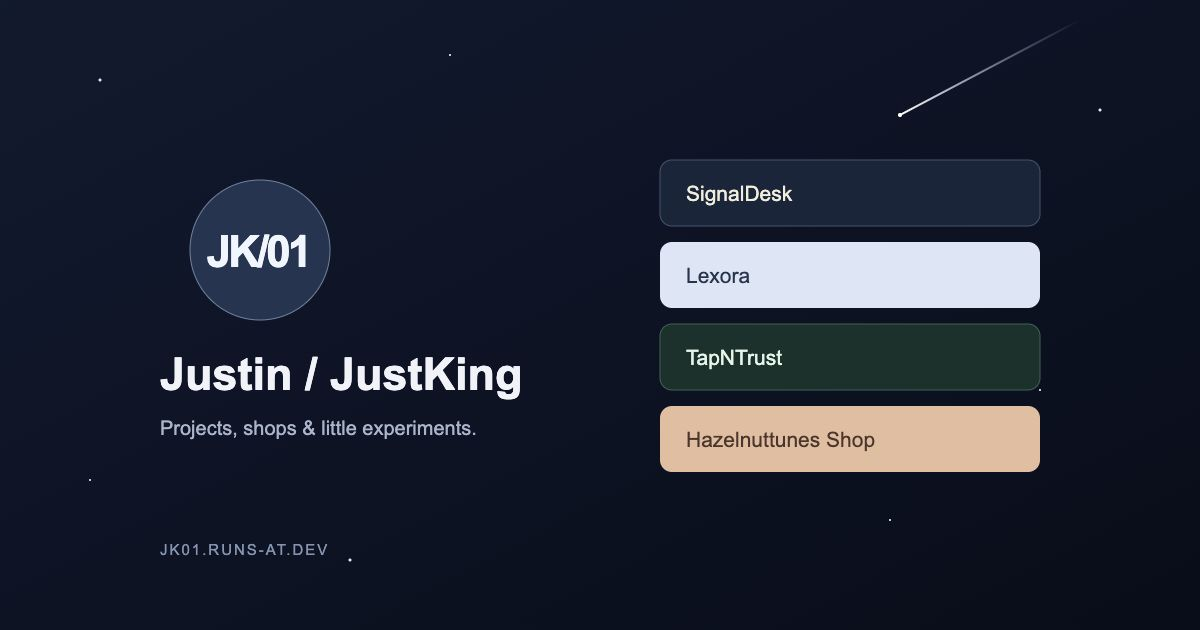
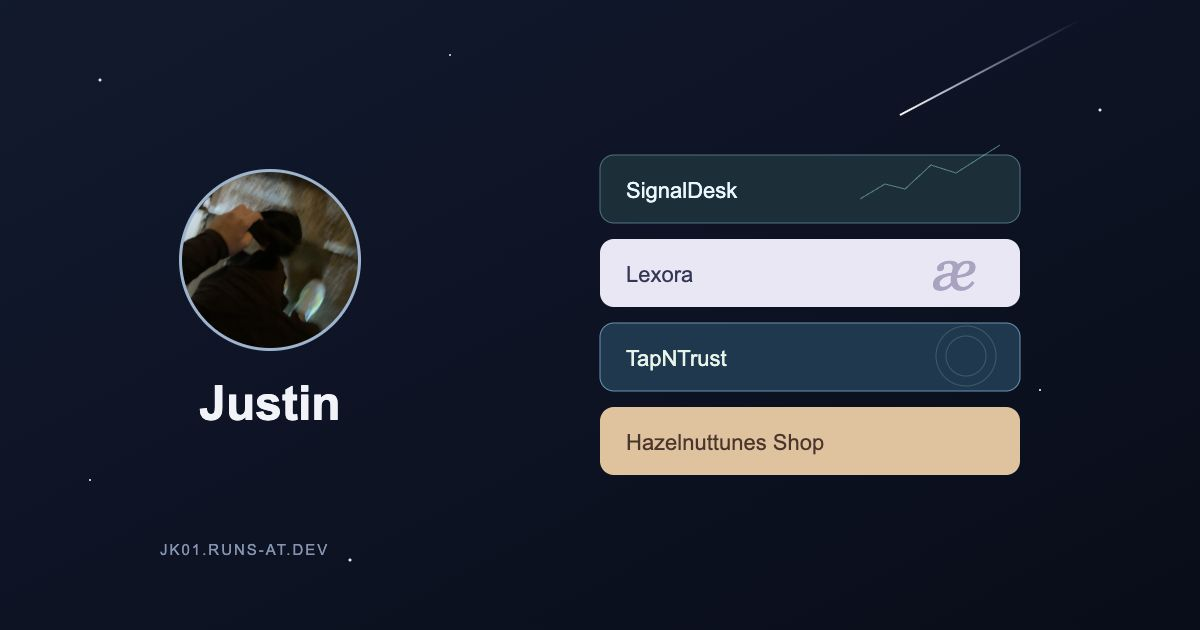
Personalize Justin profile and give project cards distinct illustrated finishes

Changed region(s): [[0.4933, 0.2413, 0.8942, 0.754], [0.1233, 0.2714, 0.4317, 0.6937]]

diff --git a/styles.css b/styles.css
@@ -23,34 +23,53 @@ a:focus-visible,button:focus-visible{outline:3px solid #d8e4ff;outline-offset:5p
 .sky-paused .meteor,.sky-paused .twinkle{animation-play-state:paused}
 .link-page{width:min(100% - 40px,560px);margin:0 auto;padding:clamp(42px,7vh,76px) 0 28px}
 .profile{text-align:center;margin-bottom:30px}
-.avatar{position:relative;display:grid;place-items:center;width:82px;height:82px;margin:0 auto 19px;border:1px solid #d8e4ff38;border-radius:50%;background:linear-gradient(145deg,#293b57,#131f36);box-shadow:0 0 0 7px #d3e1ff04,0 8px 32px #0003;overflow:hidden}
-.avatar>span{font-size:28px;font-weight:600;letter-spacing:-2px;color:#f0f4ff}.avatar-slash{font-weight:400;color:#a2b9df;margin-inline:1px}.avatar small{font-size:16px;letter-spacing:-.7px}
+.avatar{position:relative;display:grid;place-items:center;width:96px;height:96px;margin:0 auto 17px;border:2px solid #d8e4ff88;border-radius:50%;background:#131f36;box-shadow:0 0 0 7px #d3e1ff05,0 0 45px #85baff20;overflow:hidden}
 .profile-photo{width:100%;height:100%;object-fit:cover}
-.profile h1{font-size:23px;line-height:1.4;font-weight:600;letter-spacing:-.6px;margin:0 0 8px}.profile h1 span{font-weight:400;color:#b2bdd3;font-size:17px;letter-spacing:-.35px}
-.profile p{font-size:12px;line-height:1.7;color:var(--muted);margin:0;font-weight:400}
-#projectGrid{display:grid;gap:15px}
+.profile h1{font-size:25px;line-height:1.4;font-weight:600;letter-spacing:-.5px;margin:0}
+
+#projectGrid{display:grid;gap:18px}
 .project-group{min-width:0}
-.project-card{--edge:#ffffff22;--shadow:#0003;--surface:#172a30;--color:#e8f5ef;--sub:#a4c7c5;position:relative;display:flex;align-items:center;gap:18px;min-height:93px;padding:18px 22px;border:1px solid var(--edge);border-radius:13px;background:var(--surface);color:var(--color);box-shadow:0 5px 0 var(--shadow);transition:transform .2s ease,box-shadow .2s ease,border-color .2s ease}
-.project-card:hover{transform:translateY(-3px);box-shadow:0 8px 0 var(--shadow);border-color:var(--color)}
+.project-card{--edge:#ffffff22;--shadow:#0003;--surface:#172a30;--color:#e8f5ef;--sub:#a4c7c5;position:relative;display:flex;align-items:center;gap:18px;min-height:104px;padding:21px 22px;border:1px solid var(--edge);border-radius:17px;background:var(--surface);overflow:hidden;isolation:isolate;color:var(--color);box-shadow:0 12px 30px var(--shadow),inset 0 1px 0 #ffffff17;transition:transform .2s ease,box-shadow .2s ease,border-color .2s ease}
+.project-card:hover{transform:translateY(-3px);box-shadow:0 16px 38px var(--shadow),inset 0 1px 0 #ffffff33;border-color:var(--color)}
 .project-card:active{transform:translateY(1px);box-shadow:0 2px 0 var(--shadow)}
-.project-logo{flex:0 0 54px;width:54px;height:54px;position:relative;display:grid;place-items:center;border-radius:11px;background:#ffffff09;overflow:hidden}
+.project-logo{z-index:2;flex:0 0 54px;width:54px;height:54px;position:relative;display:grid;place-items:center;border-radius:11px;background:#ffffff09;overflow:hidden}
 .project-logo img{display:block;width:100%;height:100%;object-fit:contain;position:absolute;inset:0;z-index:1;background:var(--surface)}
-.logo-fallback{font-size:22px;font-weight:600}.project-label{min-width:0;flex:1}
+.logo-fallback{font-size:22px;font-weight:600}.project-label{min-width:0;flex:1;position:relative;z-index:2}
 .project-label h2{font-size:16px;font-weight:500;line-height:1.5;letter-spacing:-.25px;margin:0}
 .project-subtitle{display:block;font-size:11px;font-weight:400;line-height:1.7;color:var(--sub);margin-top:2px}
-.card-arrow{font-size:20px;font-weight:400;color:var(--sub);transition:transform .2s ease;margin-left:8px}
+.card-arrow{position:relative;z-index:2;font-size:20px;font-weight:400;color:var(--sub);transition:transform .2s ease;margin-left:8px}
 .project-card:hover .card-arrow{transform:translate(2px,-2px)}
-.theme-signaldesk .project-card{--surface:#17253b;--edge:#3c5473;--color:#f2eddb;--sub:#bdc9dc;--shadow:#0b1427c4}
-.theme-lexora .project-card{--surface:#dce5f7;--edge:#f0f5ff;--color:#26354e;--sub:#566a89;--shadow:#93a7cc55}
-.theme-tapntrust .project-card{--surface:#14322b;--edge:#366352;--color:#e5f5e9;--sub:#a8cdb6;--shadow:#071b17ba}
-.theme-tapntrust .project-logo{background:#eaf3e6}.theme-tapntrust .project-logo img{object-fit:contain;padding:5px;background:#eaf3e6}
-.theme-hazelnuttunes .project-card{--surface:#e6bc9d;--edge:#f2d7bf;--color:#4e352b;--sub:#745345;--shadow:#9d70504d}
-.theme-hazelnuttunes .project-logo{border-radius:50%}.theme-hazelnuttunes .project-logo img{border-radius:50%}
-.related-links{display:grid;grid-template-columns:1fr 1fr;gap:11px;margin-top:14px}
-.related-link{display:flex;align-items:center;justify-content:center;gap:9px;min-height:47px;padding:10px 13px;border:1px solid #c0ad9d55;border-radius:10px;background:#1e222cc7;color:#e5d2c2;font-size:11px;line-height:1.5;transition:background .2s,border-color .2s,transform .2s}
-.related-link:hover{background:#343039;border-color:#d2ad8b;transform:translateY(-2px)}
-.facebook-mark{font-family:Arial,sans-serif;display:grid;place-items:center;width:18px;height:18px;border-radius:4px;background:#dec5b1;color:#2b2930;font-weight:700;font-size:17px;line-height:1;padding-top:4px;flex:none}
-.related-arrow{color:#af9f96;margin-left:auto;font-size:15px}
+.project-card:after{content:'';position:absolute;inset:0;border-radius:inherit;pointer-events:none;background:linear-gradient(115deg,#ffffff0d,transparent 40%,#ffffff03);z-index:1}
+.card-art{position:absolute;inset:0 0 0 auto;width:42%;pointer-events:none;z-index:0;transition:transform .5s ease,opacity .5s ease;mask-image:linear-gradient(90deg,transparent,#000 45%)}
+.card-art svg{height:100%;width:100%;display:block}
+.project-card:hover .card-art{transform:scale(1.08) translateX(-4px)}
+.theme-signaldesk .project-card{--surface:radial-gradient(ellipse at 95% 100%,#1a4853,transparent 65%),linear-gradient(110deg,#0d202b,#112d39);--edge:#467482;--color:#e7f8ff;--sub:#a9c8d5;--shadow:#020f1f80}
+.art-signaldesk{color:#7edccf;opacity:.65;top:15px;bottom:8px;width:40%}
+.theme-signaldesk .project-logo img{background:#101b1c;border-radius:11px}
+.theme-lexora .project-card{--surface:radial-gradient(ellipse at 95% -20%,#e3d7ff 5%,transparent 65%),linear-gradient(115deg,#f2f1ec,#dbe6f9);--edge:#e7e8ff;--color:#343658;--sub:#626781;--shadow:#1a174a3d}
+.theme-lexora .project-logo img{background:transparent}
+.art-lexora{display:flex;align-items:center;justify-content:flex-end;padding-right:40px;color:#7a72ab;opacity:.22}
+.art-lexora span{font:italic 115px/1 Georgia,serif;transform:rotate(-12deg)}
+.theme-lexora .project-card:before{content:'';position:absolute;right:-15px;top:-55px;width:190px;height:190px;border:1px solid #8a83b72e;border-radius:50%;box-shadow:0 0 0 16px #dcd4f31a,0 0 0 17px #8a83b71a;transform:rotate(-20deg)}
+.theme-tapntrust .project-card{--surface:radial-gradient(ellipse at 100% 0,#3371aa66,transparent 65%),linear-gradient(115deg,#162c53,#16465a);--edge:#6095bb;--color:#e4fff4;--sub:#a7d7c8;--shadow:#031d2180}
+.theme-tapntrust .project-logo img{padding:7px;background:#e8f6ed;border-radius:11px}
+.art-tapntrust{color:#99eed8;opacity:.24;right:15px;transform:rotate(-15deg)}
+.art-tapntrust svg{stroke:currentColor;stroke-width:1}
+.theme-tapntrust .project-card:before{content:'';position:absolute;inset:-50% 15%;transform:rotate(35deg);background:linear-gradient(90deg,transparent,#a8f5d910,transparent);pointer-events:none}
+.theme-hazelnuttunes{border:1px solid #bc967875;border-radius:18px;overflow:hidden;box-shadow:0 12px 35px #08091160;background:#32251f}
+.theme-hazelnuttunes .project-card{--surface:radial-gradient(ellipse at 95% 0%,#f3d9af,transparent 70%),linear-gradient(115deg,#ddb08e,#e7c59c);--edge:transparent;--color:#4a2f24;--sub:#70513d;--shadow:transparent;border:0;border-radius:17px 17px 0 0;box-shadow:none}
+.theme-hazelnuttunes .project-card:hover{transform:none;box-shadow:none}
+.theme-hazelnuttunes .project-logo,.theme-hazelnuttunes .project-logo img{border-radius:50%}
+.theme-hazelnuttunes .project-logo img{background:transparent}
+.art-hazelnuttunes{color:#9c6b36;opacity:.22;width:39%;right:13px}
+.art-hazelnuttunes svg{stroke:currentColor;stroke-width:1.3}
+.shop-support{padding:14px 17px 16px;background:linear-gradient(110deg,#35271f,#29211e);border-top:1px solid #fde3c01c}
+.support-heading{margin:0 0 11px;color:#d2b79c;font-size:9px;font-weight:500;letter-spacing:.11em;text-transform:uppercase;line-height:1.5}
+.related-links{display:grid;grid-template-columns:1fr 1fr;gap:10px}
+.related-link{display:flex;align-items:center;justify-content:center;gap:9px;min-height:43px;padding:9px 11px;border:1px solid #dac3a62b;border-radius:8px;background:#e8cbac08;color:#f0dcca;font-size:10px;line-height:1.5;transition:background .2s,border-color .2s}
+.related-link:hover{background:#e8cbac18;border-color:#d2ad8b}
+.facebook-mark{font-family:Arial,sans-serif;display:grid;place-items:center;width:17px;height:17px;border-radius:4px;background:#dec5b1;color:#2b2930;font-weight:700;font-size:16px;line-height:1;padding-top:3px;flex:none}
+.related-arrow{color:#baa08c;margin-left:auto;font-size:14px}
 .footer{display:flex;align-items:center;justify-content:center;flex-wrap:wrap;gap:10px;margin-top:30px;color:#a0abc2;font-size:10px;line-height:1.6}
 .footer a{display:flex;align-items:center;gap:7px;min-height:40px;transition:color .2s}.footer a:hover{color:#fff}.footer svg{width:16px;height:16px}.footer-dot{color:#68788e}
 .page-signature{font-size:10px;letter-spacing:1.2px;text-align:center;color:#7b8ba7;margin-top:6px}.page-signature span{display:inline-block;margin-left:3px;color:#a7bddb;font-size:11px}
@@ -59,6 +78,6 @@ a:focus-visible,button:focus-visible{outline:3px solid #d8e4ff;outline-offset:5p
 .sky-toggle[aria-pressed=true] svg{transform:rotate(90deg)}
 .fallback-links{display:grid;gap:14px}.fallback-links a{display:block;padding:20px;border-radius:12px;background:#24344a}
 @media(min-width:1500px){.link-page{padding-top:9vh}}
-@media(max-width:600px){.link-page{width:calc(100% - 36px);padding-top:48px}.profile{margin-bottom:27px}.avatar{width:75px;height:75px;margin-bottom:18px}.profile h1{font-size:22px}.profile h1 span{font-size:16px}.profile p{font-size:11px}.project-card{gap:14px;min-height:88px;padding:16px 17px;border-radius:12px}.project-logo{width:49px;height:49px;flex-basis:49px}.project-label h2{font-size:15px}.project-subtitle{font-size:10px}.card-arrow{margin-left:1px;font-size:18px}.related-links{gap:9px}.related-link{font-size:10px;gap:7px;padding-inline:11px}.sky-toggle{top:9px;right:10px;min-height:32px;font-size:9px}.sky-toggle svg{width:10px;height:10px}.footer{margin-top:24px}.page-signature{margin-top:3px}}
+@media(max-width:600px){.link-page{width:calc(100% - 36px);padding-top:48px}.profile{margin-bottom:27px}.avatar{width:88px;height:88px;margin-bottom:17px}.profile h1{font-size:22px}.project-card{gap:14px;min-height:98px;padding:19px 17px;border-radius:15px}.project-logo{width:49px;height:49px;flex-basis:49px}.project-label h2{font-size:15px}.project-subtitle{font-size:10px}.card-arrow{margin-left:1px;font-size:18px}.related-links{gap:9px}.related-link{font-size:10px;gap:7px;padding-inline:10px}.shop-support{padding:13px 13px 14px}.support-heading{font-size:9px;letter-spacing:.035em}.sky-toggle{top:9px;right:10px;min-height:32px;font-size:9px}.sky-toggle svg{width:10px;height:10px}.footer{margin-top:24px}.page-signature{margin-top:3px}}
 @media(max-width:350px){.link-page{width:calc(100% - 28px)}.project-card{gap:11px;padding-inline:14px}.project-label h2{font-size:13px}.project-subtitle{font-size:9px}.project-logo{width:45px;height:45px;flex-basis:45px}.related-link{font-size:9px;padding-inline:8px;gap:6px}.related-arrow{font-size:12px}}
 @media(prefers-reduced-motion:reduce){*,*:before,*:after{animation:none!important;transition:none!important}.meteor{display:none}}

diff --git a/app.js b/app.js
@@ -21,13 +21,11 @@
     const person = data.person || {};
     const name = document.querySelector('#profileName');
     name.replaceChildren(document.createTextNode(person.name || 'Justin'));
-    name.append(make('span', '', ` / ${person.alias || 'JustKing'}`));
-    document.querySelector('#profileBio').textContent = person.bio || '';
     document.querySelector('#profileLocation').textContent = person.location || '';
     const github = https(person.github);
     if (github) document.querySelector('#githubLink').href = github;
     if (person.photo) {
-      const photo = new Image(); photo.alt = ''; photo.className = 'profile-photo';
+      const photo = new Image(); photo.alt = 'Justin’s chosen profile photo'; photo.className = 'profile-photo';
       photo.addEventListener('load', () => document.querySelector('#avatar').replaceChildren(photo), {once:true});
       photo.src = person.photo;
     }
@@ -46,17 +44,31 @@
       const label = make('span', 'project-label');
       label.append(make('h2', '', project.name), make('span', 'project-subtitle', project.subtitle));
       const arrow = make('span', 'card-arrow', '↗'); arrow.setAttribute('aria-hidden', 'true');
-      link.append(logoWrap, label, arrow); group.append(link);
+      const art = make('span', `card-art art-${project.id}`);
+      art.setAttribute('aria-hidden', 'true');
+      const graphics = {
+        signaldesk: '<svg viewBox="0 0 200 100" fill="none"><path d="M0 80 23 66 39 74 61 48 78 54 100 24 122 37 146 12 169 29 200 4" stroke="currentColor" stroke-width="1.5"/><path d="M0 98H200M0 74H200M0 50H200M0 26H200M25 0V100M75 0V100M125 0V100M175 0V100" stroke="currentColor" stroke-opacity=".15" stroke-width=".7"/></svg>',
+        lexora: '<span>æ</span>',
+        tapntrust: '<svg viewBox="0 0 160 100" fill="none"><circle cx="105" cy="55" r="25"/><circle cx="105" cy="55" r="44"/><circle cx="105" cy="55" r="64"/><circle cx="105" cy="55" r="84"/></svg>',
+        hazelnuttunes: '<svg viewBox="0 0 180 110" fill="none"><ellipse cx="130" cy="50" rx="57" ry="68" transform="rotate(35 130 50)"/><ellipse cx="130" cy="50" rx="47" ry="58" transform="rotate(35 130 50)"/><path d="m48 23 4 10 11 4-11 4-4 10-4-10-10-4 10-4z" fill="currentColor" stroke="none"/></svg>'
+      };
+      art.innerHTML = graphics[project.id] || '';
+      link.append(art, logoWrap, label, arrow); group.append(link);
       if (Array.isArray(project.extraLinks)) {
+        group.classList.add('has-related');
+        const support = make('div', 'shop-support');
+        support.setAttribute('role', 'group');
+        support.setAttribute('aria-label', `${project.name} support and community`);
+        support.append(make('p', 'support-heading', project.extraHeading || `${project.name} support`));
         const related = make('div', 'related-links');
         project.extraLinks.forEach(extra => {
           const href = https(extra.url); if (!href) return;
-          const secondary = external('related-link', href, extra.label);
+          const secondary = external('related-link', href, `${project.name} — ${extra.label}`);
           const icon = make('span', 'facebook-mark', 'f'); icon.setAttribute('aria-hidden', 'true');
           const arrow = make('span', 'related-arrow', '↗'); arrow.setAttribute('aria-hidden', 'true');
           secondary.append(icon, make('span', '', extra.label), arrow); related.append(secondary);
         });
-        group.append(related);
+        support.append(related); group.append(support);
       }
       grid.append(group);
     });

diff --git a/index.html b/index.html
@@ -4,15 +4,15 @@
   <meta charset="utf-8">
   <meta name="viewport" content="width=device-width, initial-scale=1">
   <meta name="theme-color" content="#080d1a">
-  <meta name="description" content="Justin / JustKing — projects, shops and little experiments. Explore SignalDesk, Lexora, TapNTrust and Hazelnuttunes.">
+  <meta name="description" content="Justin — explore SignalDesk, Lexora, TapNTrust and Hazelnuttunes.">
   <meta property="og:type" content="website">
-  <meta property="og:title" content="JK/01 — Justin / JustKing">
-  <meta property="og:description" content="Projects, shops & little experiments. All in one place.">
+  <meta property="og:title" content="JK/01 — Justin">
+  <meta property="og:description" content="SignalDesk, Lexora, TapNTrust and Hazelnuttunes.">
   <meta property="og:url" content="https://jk01.runs-at.dev/">
   <meta property="og:image" content="https://jk01.runs-at.dev/og-cover.jpg">
   <meta property="og:image:width" content="1200">
   <meta property="og:image:height" content="630">
-  <meta property="og:image:alt" content="JK/01 — Justin / JustKing, under a sky full of possibilities.">
+  <meta property="og:image:alt" content="JK/01 — Justin, under a sky full of possibilities.">
   <meta name="twitter:card" content="summary_large_image">
   <link rel="canonical" href="https://jk01.runs-at.dev/">
   <link rel="icon" type="image/svg+xml" href="./favicon.svg">
@@ -22,7 +22,7 @@
   <link rel="stylesheet" href="./styles.css">
   <script defer src="./site-data.js"></script>
   <script defer src="./app.js"></script>
-  <title>JK/01 — Justin / JustKing</title>
+  <title>JK/01 — Justin</title>
 </head>
 <body>
   <a class="skip-link" href="#links">Skip to links</a>
@@ -33,9 +33,8 @@
   </div>
   <main class="link-page">
     <header class="profile">
-      <div class="avatar" id="avatar" aria-hidden="true"><span>JK<span class="avatar-slash">/</span><small>01</small></span></div>
-      <h1 id="profileName">Justin <span>/ JustKing</span></h1>
-      <p id="profileBio">Projects, shops & little experiments.</p>
+      <div class="avatar" id="avatar"><img class="profile-photo" src="./assets/justin.jpg" width="96" height="96" alt="Justin’s chosen profile photo" fetchpriority="high"></div>
+      <h1 id="profileName">Justin</h1>
     </header>
     <section class="links" id="links" aria-label="Projects and shops">
       <div id="projectGrid"></div>
@@ -44,8 +43,8 @@
         <a href="https://lexora-pte.pages.dev/" target="_blank" rel="noopener noreferrer">Lexora ↗</a>
         <a href="https://tapntrust.com/" target="_blank" rel="noopener noreferrer">TapNTrust ↗</a>
         <a href="https://hazelnuttunes.com/" target="_blank" rel="noopener noreferrer">Hazelnuttunes Shop ↗</a>
-        <a href="https://www.facebook.com/profile.php?id=61576748497882" target="_blank" rel="noopener noreferrer">Our Support 24/7 ↗</a>
-        <a href="https://www.facebook.com/profile.php?id=61591800332459" target="_blank" rel="noopener noreferrer">Our Fanpage ↗</a>
+        <a href="https://www.facebook.com/profile.php?id=61576748497882" target="_blank" rel="noopener noreferrer">Hazelnuttunes support 24/7 ↗</a>
+        <a href="https://www.facebook.com/profile.php?id=61591800332459" target="_blank" rel="noopener noreferrer">Hazelnuttunes fanpage ↗</a>
       </div></noscript>
     </section>
     <footer class="footer">

diff --git a/site-data.js b/site-data.js
@@ -5,10 +5,8 @@
 window.JK_DATA = {
   person: {
     name: 'Justin',
-    alias: 'JustKing',
-    bio: 'Projects, shops & little experiments.',
     location: 'Melbourne, Australia',
-    photo: '', // Optional local portrait path; blank keeps the JK/01 avatar.
+    photo: './assets/justin.jpg', // Local profile image.
     github: 'https://github.com/vienvavinhcr-star'
   },
   projects: [
@@ -31,6 +29,7 @@ window.JK_DATA = {
       id: 'hazelnuttunes', name: 'Hazelnuttunes Shop',
       subtitle: 'Your digital favourites', logo: './assets/hazelnuttunes.png',
       url: 'https://hazelnuttunes.com/',
+      extraHeading: 'Hazelnuttunes · Support & community',
       extraLinks: [
         { label: 'Our Support 24/7', url: 'https://www.facebook.com/profile.php?id=61576748497882' },
         { label: 'Our Fanpage', url: 'https://www.facebook.com/profile.php?id=61591800332459' }

diff --git a/README.md b/README.md
@@ -1,16 +1,18 @@
-# JK/01 — Justin / JustKing
+# JK/01 — Justin
 
-A compact personal link page with Poppins typography, four individually themed shop/project cards, local logos and a CSS shooting-star sky. Static HTML, CSS and JavaScript; no build step.
+A compact personal link page with Poppins typography, four individually illustrated shop/project cards, local logos and a CSS shooting-star sky. Static HTML, CSS and JavaScript; no build step.
 
 ## Edit content
 
-`site-data.js` is the central content configuration. Edit `person` for name, alias, short bio, location, GitHub URL and optional local portrait path. Edit project names, one-line subtitles, logo paths and HTTPS URLs in `projects`. Array order controls display order.
+`site-data.js` is the central content configuration. Edit `person` for name, location, GitHub URL and optional local portrait path. Edit project names, one-line subtitles, logo paths and HTTPS URLs in `projects`. Array order controls display order.
 
-Hazelnuttunes' two Facebook links are separate anchors outside the main shop link. All external links open in a new tab with `noopener noreferrer`. A JavaScript-free fallback contains all six destinations.
+Hazelnuttunes' two Facebook links are grouped inside its warm brown shop panel, below a shop-specific support label. They remain separate anchors outside the main shop link. All external links open in a new tab with `noopener noreferrer`. A JavaScript-free fallback contains all six destinations.
 
 ## Motion and accessibility
 
 The star field and shooting stars use CSS transforms and opacity. “Pause sky” pauses all background animations and remembers the choice for the browser session. Reduced-motion preferences stop the animation automatically. Background motion also pauses when the tab is hidden. All cards and controls support keyboard focus.
+
+The profile uses the user-supplied image in `assets/justin.jpg`.
 
 ## Assets
 
